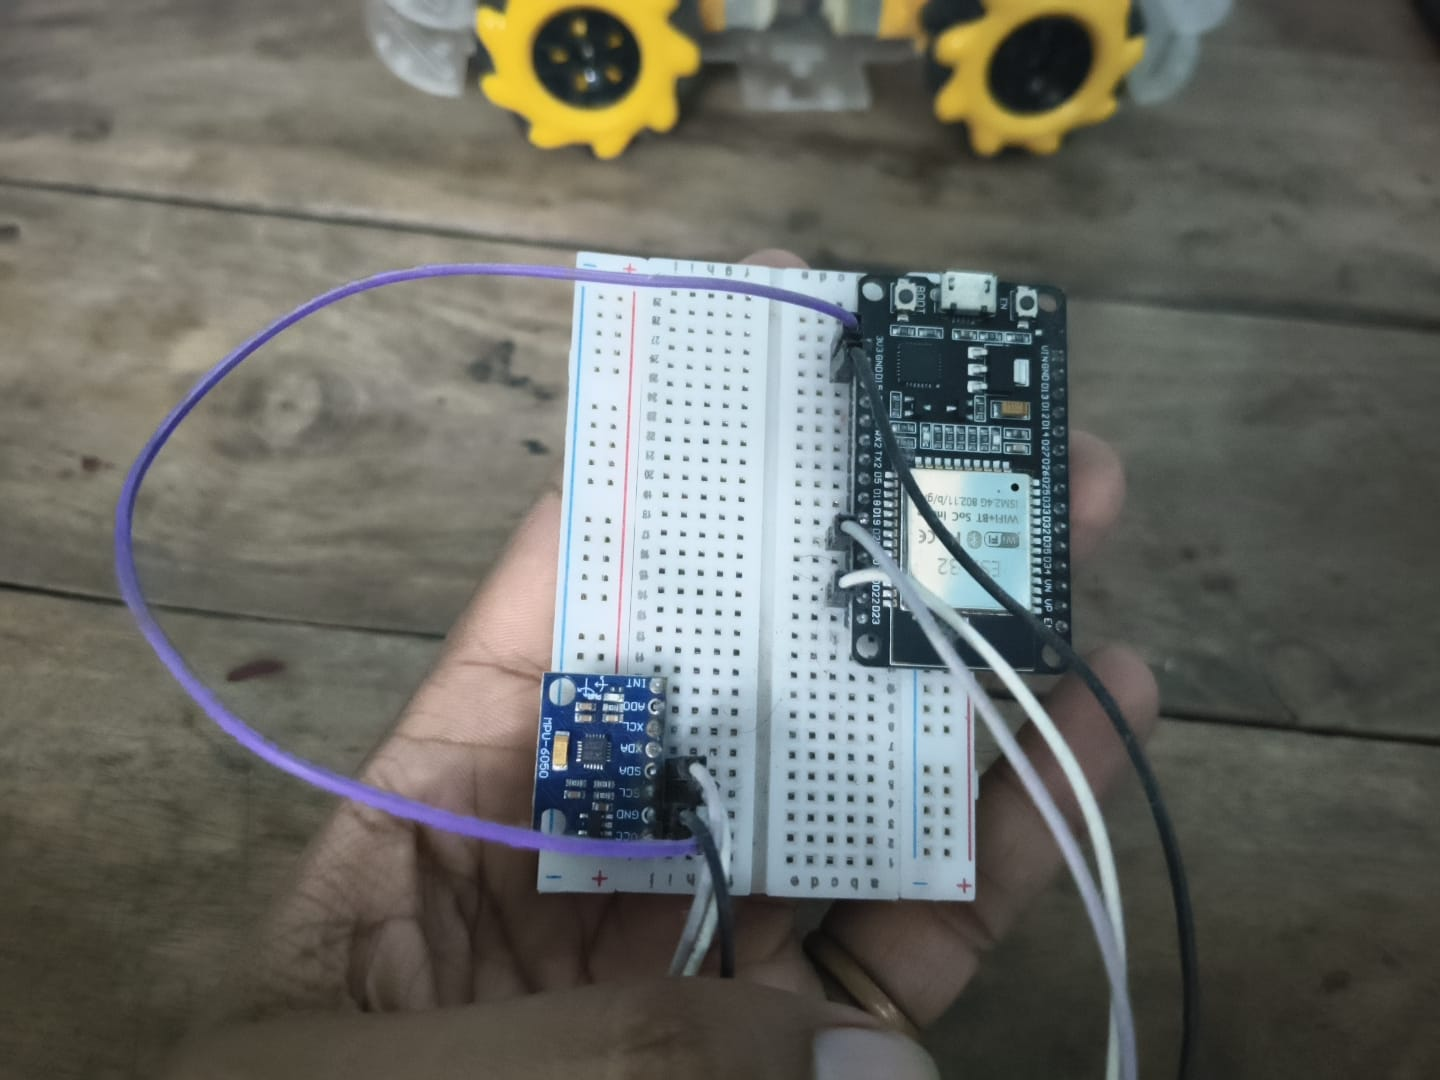
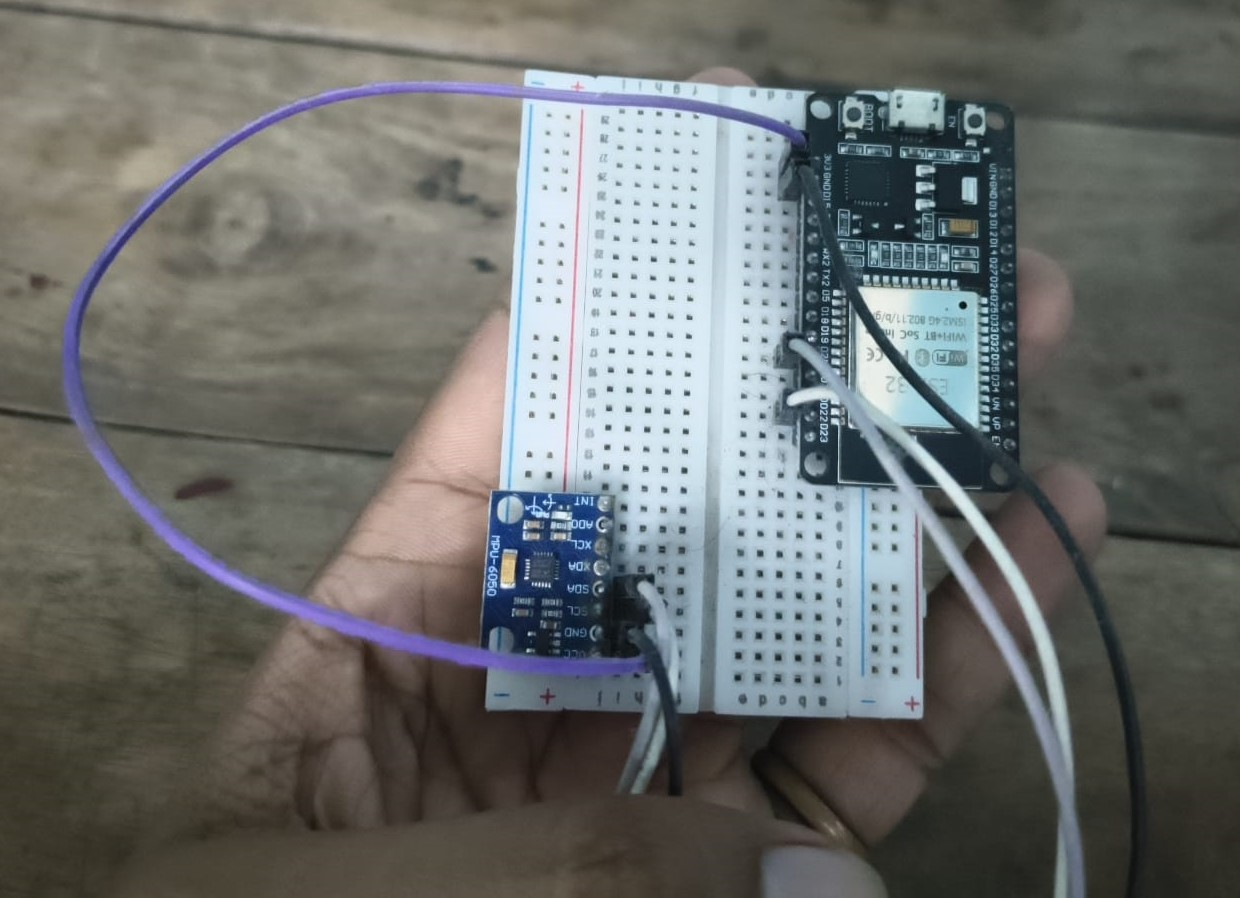
docs: expand power scheme technical documentation and add supporting project images

diff --git a/Gesture-Controlled-Car-MiniProject.tex b/Gesture-Controlled-Car-MiniProject.tex
@@ -389,10 +389,15 @@ Stop & Stop & Stop & Stop & Stop \\ \hline
 \captionof{table}{Mecanum Wheel Movement Matrix}
 \label{tab:mecanum_matrix}
 \end{center}
-
 \newpage
 \section{Power Scheme and Common Grounding}
-To prevent voltage spikes from the DC motors from resetting the microcontrollers, a split power delivery configuration is implemented. The battery positive terminal supplies power directly to the L298N motor driver boards. The L298N's onboard 5V regulator steps down the input voltage to supply regulated 5V to the Arduino and ESP32 boards. Connecting the GND terminals of all boards and drivers is essential to establish a common references level.
+To prevent voltage spikes, electromagnetic interference (EMI), and transient voltage drops caused by the high current draw of the DC geared motors from resetting or damaging the sensitive ESP32 microcontrollers, a robust split power delivery configuration is implemented in this robotic car.\par
+\medskip
+The power source consists of a high-capacity 7.4V Lithium-Ion battery pack using two 18650 cells connected in series. The positive terminal of this battery pack supplies raw 7.4V directly to the motor power input pins ($V_{MS}$ or $12V$ input terminal) of the dual L298N motor driver boards. This ensures that the heavy currents required by the four BO motors during start-up, acceleration, and stalling do not pass through the microcontroller's power lanes.\par
+\medskip
+The L298N driver boards feature an onboard 5V regulator (specifically the LM7805 or similar linear regulator chip). This regulator steps down the 7.4V input to a stable, regulated 5V output, which is fed into the $5V$ or $VIN$ pins of the ESP32 boards. To ensure stable operation, 100\textmu{}F electrolytic capacitors are placed in parallel with the power lines to smooth out voltage fluctuations, and 0.1\textmu{}F ceramic capacitors are added across the motor terminals to suppress high-frequency electrical noise generated by the motor brushes.\par
+\medskip
+A critical design rule in this circuit integration is establishing a unified common ground. Connecting the negative terminals (GND) of the battery pack, the ESP32 microcontroller, and both L298N motor drivers is absolutely essential. Without a shared common ground reference, the control PWM signals sent from the ESP32 GPIO pins to the motor driver inputs (IN1--IN4, ENA, ENB) would lack a stable return path, causing erratic motor behaviors or communication failure.\par
 
 % ==================== PAGE 15: CHAPTER 4: SOFTWARE IMPLEMENTATION ====================
 \chapter{Software Implementation and Control Algorithms}